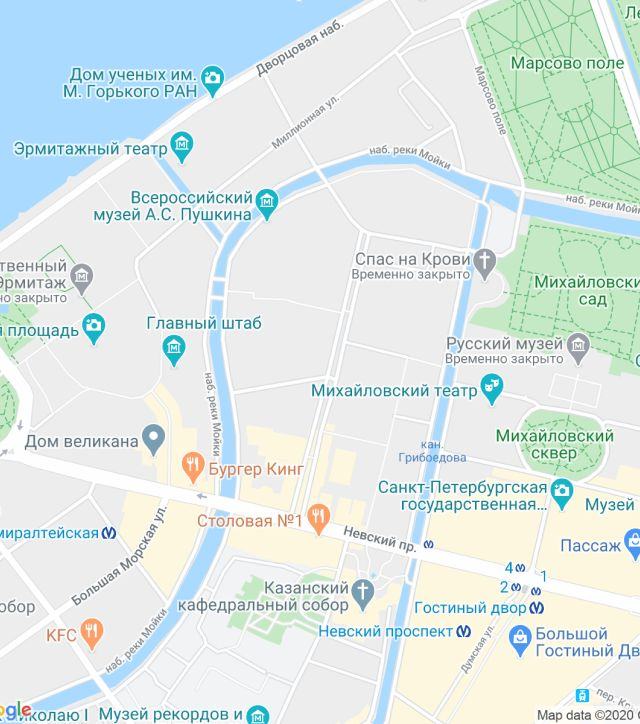
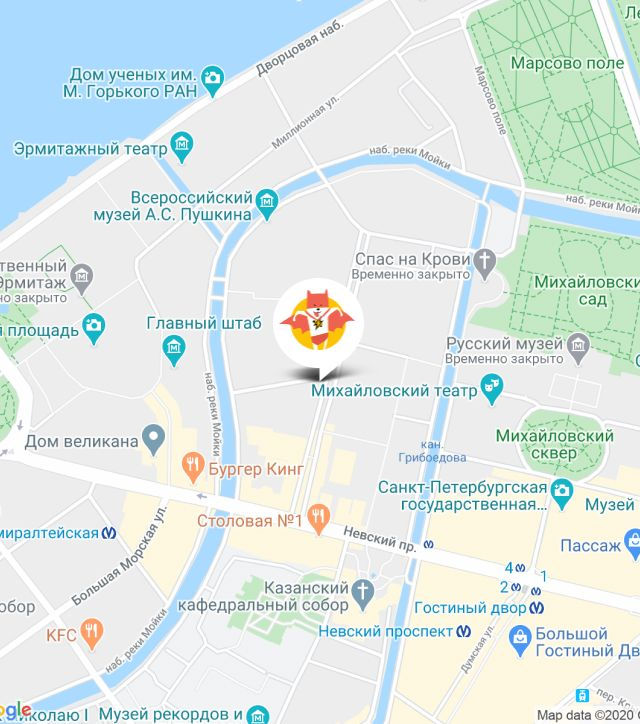
Вносит изменения в графику

Changed region(s): [[0.4375, 0.395, 0.5625, 0.547]]

diff --git a/source/index.html b/source/index.html
@@ -2,136 +2,140 @@
 <html class="page" lang="ru">
 
 <head>
-  <meta charset="UTF-8">
-  <title>Cat Energy</title>
-  <meta name="viewport" content="width=device-width,initial-scale=1">
-  <link rel="icon" href="favicon.ico" sizes="32x32">
-  <link rel="icon" href="favicons/icon.svg" type="image/svg+xml" sizes="32x32">
-  <link rel="apple-touch-icon" href="favicons/180.png" sizes="180x180">
-  <link rel="manifest" href="manifest.webmanifest">
-  <link rel="stylesheet" href="styles/styles.css">
-  <script src="scripts/index.js" defer></script>
+	<meta charset="UTF-8">
+	<title>Cat Energy</title>
+	<meta name="viewport" content="width=device-width,initial-scale=1">
+	<link rel="icon" href="favicon.ico" sizes="32x32">
+	<link rel="icon" href="favicons/icon.svg" type="image/svg+xml" sizes="32x32">
+	<link rel="apple-touch-icon" href="favicons/180.png" sizes="180x180">
+	<link rel="manifest" href="manifest.webmanifest">
+	<link rel="stylesheet" href="styles/styles.css">
+	<script src="scripts/index.js" defer></script>
 </head>
 
 <body class="page__body">
-  <header class="main-header">
-    <a class="main-header__logo logo" href="#">
-      <img class="logo__image trademark" src="#" width="33" height="38" alt="Товарный знак">
-      <img class="logo__image logotype" src="#" width="101" height="18" alt="Логотип Cat Energy">
-    </a>
-    <nav class="main-header__nav main-nav">
-      <button class="main-nav__burger-menu" type="button">
-        <span class="visually-hidden">Открыть меню</span>
-      </button>
-      <ul class="main-nav__list site-list">
-        <li class="site-list__item"><a class="site-list__link site-list__link--current" href="#">Главная</a></li>
-        <li class="site-list__item"><a class="site-list__link" href="catalog.html">Каталог продукции</a></li>
-        <li class="site-list__item"><a class="site-list__link" href="#">Подбор программы</a></li>
-      </ul>
-    </nav>
-  </header>
-  <main class="main-container">
-    <h1 class="visually-hidden">Онлайн-магазин кормов для котов Cat Energy</h1>
-    <section class="hero">
-      <h2 class="hero__title title">Функциональное питание для котов</h2>
-      <p class="hero__slogan">Занялся собой? Займись котом!</p>
-      <a class="hero__link-img" href="#">
-        <picture>
-          <source media="(min-width: 1440px)" width="552" height="499" type="image/png" srcset="images/main-product-desktop@1x.png 1x, images/main-product-desktop@2x.png 2x">
-          <source media="(min-width: 768px)" width="709" height="609" type="image/png" srcset="images/main-product-tablet@1x.png 1x, images/main-product-tablet@2x.png 2x">
-          <img class="hero__image" src="images/main-product-mobile@1x.png" srcset="images/main-product-mobile@2x.png 2x" width="280" height="270" alt="Фото упаковки корма Cat Energy со вкусом курицы 500г">
-        </picture>
-      </a>
-      <a class="hero__link button" href="#">Подобрать программу</a>
-    </section>
-    <section class="food-plan">
-      <h2 class="visually-hidden">Программы питания</h2>
-      <ul class="food-plan__list">
-        <li class="food-plan__item food-plan__item--slim">
-          <h3 class="food-plan__title">Похудение</h3>
-          <p class="food-plan__description">Ваш кот весит больше собаки и почти утратил способность лазить по деревьям?Пора на диету! Cat Energy Slim поможет вашему питомцу сбросить лишний вес.</p>
-          <a href="#">Каталог slim</a>
-        </li>
-        <li class="food-plan__item food-plan__item--pro">
-          <h3 class="food-plan__title">Набор массы</h3>
-          <p class="food-plan__description">Заработать авторитет среди дворовых котов и даже собак? Серия Cat Energy Pro поможет вашему коту нарастить необходимые мышцы!</p>
-          <a href="#">Каталог pro</a>
-        </li>
-      </ul>
-    </section>
-    <section class="working-principles">
-      <h2 class="working-principles__title title">Как это работает</h2>
-      <ul class="working-principles__list">
-        <li class="working-principles__item">
-          <p class="working-principles__description">Функциональное питание содержит только полезные питательные вещества.</p>
-        </li>
-        <li class="working-principles__item">
-          <p class="working-principles__description">Выпускается в виде порошка, который нужно лишь залить кипятком и готово.</p>
-        </li>
-        <li class="working-principles__item">
-          <p class="working-principles__description">Замените один-два приема обычной еды на наше функциональное питание.</p>
-        </li>
-        <li class="working-principles__item">
-          <p class="working-principles__description">Уже через месяц наслаждайтесь изменениями к лучшему вашего питомца!</p>
-        </li>
-      </ul>
-    </section>
-    <section class="real-case">
-      <h2 class="real-case__title title">Живой пример</h2>
-      <p class="real-case__description">Борис сбросил 5 кг за 2 месяца, просто заменив свой обычный корм на Cat Energy Slim. Отличный результат без изнуряющих тренировок! При этом он не менял своих привычек и по-прежнему спит по 16 часов в день.</p>
-      <dl class="real-case__stats stats">
-        <div class="stats__item">
-          <dt class="stats__number">5 кг</dt>
-          <dd class="stats__description">снижение веса</dd>
-        </div>
-        <div class="stats__item">
-          <dt class="stats__number">60 дней</dt>
-          <dd class="stats__description">затрачено времени</dd>
-        </div>
-      </dl>
-      <p class="real-case__cost">Затраты на питание: 15 000 руб.</p>
-      <div class="real-case__slider slider">
-        <div class="slider__item slider__item--before">
-          <picture>
-            <source media="(min-width: 1200px)" width="560" height="512" type="image/png" srcset="images/cat-before-tablet@1x.png 1x, images/cat-before-tablet@2x.png 2x">
-            <source media="(min-width: 768px)" width="560" height="512" type="image/png" srcset="images/cat-before-tablet@1x.png 1x, images/cat-before-tablet@2x.png 2x">
-            <img class="slider-image" src="images/сat-before-mobile@1x.png" srcset="images/сat-before-mobile@2x.png 2x" width="280" height="256" alt="Фото упитанного кота до потери веса">
-          </picture>
-        </div>
-        <div class="slider__item slider__item--after">
-          <picture>
-            <source media="(min-width: 1200px)" width="560" height="512" type="image/jpeg" srcset="images/cat-after-tablet@1x.png 1x, images/cat-after-tablet@2x.png 2x">
-            <source media="(min-width: 768px)" width="560" height="512" type="image/jpeg" srcset="images/cat-after-tablet@1x.png 1x, images/cat-after-tablet@2x.png 2x">
-            <img class="slider-image" src="images/сat-after-mobile@1x.png" srcset="images/сat-after-mobile@2x.png 2x" width="280" height="256" alt="Фото после">
-          </picture>
-        </div>
-      </div>
-    </section>
-    <section class="contacts">
-      <div class="contacts__card contact-us">
-        <h2 class="contact-us__title">Приглашаем к сотрудничеству дилеров!</h2>
-        <address class="contact-us__adress">ул. Большая Конюшенная, д. 19/8 Санкт-Петербург</address>
-      </div>
-      <img class="contacts__map map" src="#" width="320" height="362" alt="Наша локация на карте">
-    </section>
-  </main>
-  <footer class="footer">
-    <a class="footer__logo logo" href="#">
-      <img class="logo__image logotype" src="#" width="101" height="18" alt="Логотип Cat Energy">
-    </a>
-    <ul class="footer__social social-list">
-      <li class="social-list__item">
-        <a class="social-list__link" href="#"><span class="visually-hidden">VK</span></a>
-      </li>
-      <li class="social-list__item">
-        <a class="social-list__link" href="#"><span class="visually-hidden">Youtube</span></a>
-      </li>
-      <li class="social-list__item">
-        <a class="social-list__link" href="#"><span class="visually-hidden">Telegram</span></a>
-      </li>
-    </ul>
-    <a class="footer__author academy-logo" href="https://htmlacademy.ru/intensive/adaptive">HTML Academy</a>
-  </footer>
+	<header class="main-header">
+		<a class="main-header__logo logo" href="#">
+			<img class="logo__image logo-icon" src="#" width="33" height="38" alt="Товарный знак">
+			<img class="logo__image logo-text" src="#" width="101" height="18" alt="Логотип Cat Energy">
+		</a>
+		<nav class="main-header__nav main-nav">
+			<button class="main-nav__burger-menu" type="button">
+				<span class="visually-hidden">Открыть меню</span>
+			</button>
+			<ul class="main-nav__list site-list">
+				<li class="site-list__item"><a class="site-list__link site-list__link--current" href="#">Главная</a></li>
+				<li class="site-list__item"><a class="site-list__link" href="catalog.html">Каталог продукции</a></li>
+				<li class="site-list__item"><a class="site-list__link" href="#">Подбор программы</a></li>
+			</ul>
+		</nav>
+	</header>
+	<main class="main-container">
+		<h1 class="visually-hidden">Онлайн-магазин кормов для котов Cat Energy</h1>
+		<section class="hero">
+			<h2 class="hero__title title">Функциональное питание для котов</h2>
+			<p class="hero__slogan">Занялся собой? Займись котом!</p>
+			<a class="hero__link-img" href="#">
+				<picture>
+					<source media="(min-width: 1440px)" width="552" height="499" type="image/png" srcset="images/main-product-desktop@1x.png 1x, images/main-product-desktop@2x.png 2x">
+					<source media="(min-width: 768px)" width="709" height="609" type="image/png" srcset="images/main-product-tablet@1x.png 1x, images/main-product-tablet@2x.png 2x">
+					<img class="hero__image" src="images/main-product-mobile@1x.png" srcset="images/main-product-mobile@2x.png 2x" width="280" height="270" alt="Фото упаковки корма Cat Energy со вкусом курицы 500г">
+				</picture>
+			</a>
+			<a class="hero__link button" href="#">Подобрать программу</a>
+		</section>
+		<section class="food-plan">
+			<h2 class="visually-hidden">Программы питания</h2>
+			<ul class="food-plan__list">
+				<li class="food-plan__item food-plan__item--slim">
+					<h3 class="food-plan__title">Похудение</h3>
+					<p class="food-plan__description">Ваш кот весит больше собаки и почти утратил способность лазить по деревьям?Пора на диету! Cat Energy Slim поможет вашему питомцу сбросить лишний вес.</p>
+					<a href="#">Каталог slim</a>
+				</li>
+				<li class="food-plan__item food-plan__item--pro">
+					<h3 class="food-plan__title">Набор массы</h3>
+					<p class="food-plan__description">Заработать авторитет среди дворовых котов и даже собак? Серия Cat Energy Pro поможет вашему коту нарастить необходимые мышцы!</p>
+					<a href="#">Каталог pro</a>
+				</li>
+			</ul>
+		</section>
+		<section class="working-principles">
+			<h2 class="working-principles__title title">Как это работает</h2>
+			<ul class="working-principles__list">
+				<li class="working-principles__item">
+					<p class="working-principles__description">Функциональное питание содержит только полезные питательные вещества.</p>
+				</li>
+				<li class="working-principles__item">
+					<p class="working-principles__description">Выпускается в виде порошка, который нужно лишь залить кипятком и готово.</p>
+				</li>
+				<li class="working-principles__item">
+					<p class="working-principles__description">Замените один-два приема обычной еды на наше функциональное питание.</p>
+				</li>
+				<li class="working-principles__item">
+					<p class="working-principles__description">Уже через месяц наслаждайтесь изменениями к лучшему вашего питомца!</p>
+				</li>
+			</ul>
+		</section>
+		<section class="real-case">
+			<h2 class="real-case__title title">Живой пример</h2>
+			<p class="real-case__description">Борис сбросил 5 кг за 2 месяца, просто заменив свой обычный корм на Cat Energy Slim. Отличный результат без изнуряющих тренировок! При этом он не менял своих привычек и по-прежнему спит по 16 часов в день.</p>
+			<dl class="real-case__stats stats">
+				<div class="stats__item">
+					<dt class="stats__number">5 кг</dt>
+					<dd class="stats__description">снижение веса</dd>
+				</div>
+				<div class="stats__item">
+					<dt class="stats__number">60 дней</dt>
+					<dd class="stats__description">затрачено времени</dd>
+				</div>
+			</dl>
+			<p class="real-case__cost">Затраты на питание: 15 000 руб.</p>
+			<div class="real-case__slider slider">
+				<div class="slider__item slider__item--before">
+					<picture>
+						<source width="560" height="512" type="image/png" media="(min-width: 768px)" srcset="images/cat-before-tablet@1x.png 1x, images/cat-before-tablet@2x.png 2x">
+						<img class="slider-image" src="images/cat-before-mobile@1x.png" srcset="images/cat-before-mobile@2x.png 2x" width="280" height="256" alt="Фото упитанного кота до потери веса">
+					</picture>
+				</div>
+				<div class="slider__item slider__item--after">
+					<picture>
+						<source media="(min-width: 768px)" width="560" height="512" type="image/jpeg" srcset="images/cat-after-tablet@1x.png 1x, images/cat-after-tablet@2x.png 2x">
+						<img class="slider-image" src="images/cat-after-mobile@1x.png" srcset="images/сat-after-mobile@2x.png 2x" width="280" height="256" alt="Фото после">
+					</picture>
+				</div>
+			</div>
+		</section>
+		<section class="contacts">
+			<div class="contacts__card contact-us">
+				<h2 class="contact-us__title">Приглашаем к сотрудничеству дилеров!</h2>
+				<address class="contact-us__adress">ул. Большая Конюшенная, д. 19/8 Санкт-Петербург</address>
+			</div>
+			<div class="contacts__map map">
+				<picture>
+					<source media="(min-width: 1440px)" width="1440" height="400" type="image/jpeg" srcset="images/map-desktop@1x.jpg 1x, images/map-desktop@2x.jpg 2x">
+					<source media="(min-width: 768px)" width="768" height="400" type="image/jpeg" srcset="images/map-tablet@1x.jpg 1x, images/map-tablet@2x.jpg 2x">
+					<img class="map__image" src="images/map-mobile@1x.jpg" srcset="images/map-mobile@2x.jpg 2x" width="320" height="362" alt="Наша локация на карте">
+				</picture>
+			</div>
+		</section>
+	</main>
+	<footer class="footer">
+		<a class="footer__logo logo" href="#">
+			<img class="logo__image logo-text" src="#" width="101" height="18" alt="Логотип Cat Energy">
+		</a>
+		<ul class="footer__social social-list">
+			<li class="social-list__item">
+				<a class="social-list__link" href="#"><span class="visually-hidden">VK</span></a>
+			</li>
+			<li class="social-list__item">
+				<a class="social-list__link" href="#"><span class="visually-hidden">Youtube</span></a>
+			</li>
+			<li class="social-list__item">
+				<a class="social-list__link" href="#"><span class="visually-hidden">Telegram</span></a>
+			</li>
+		</ul>
+		<a class="footer__author academy-logo" href="https://htmlacademy.ru/intensive/adaptive">HTML Academy</a>
+	</footer>
 </body>
 
 </html>

diff --git a/source/catalog.html b/source/catalog.html
@@ -16,8 +16,8 @@
 <body class="page__body">
   <header class="main-header">
     <a class="main-header__logo logo" href="#">
-      <img class="logo__image trademark" src="#" width="33" height="38" alt="Товарный знак">
-      <img class="logo__image logotype" src="#" width="101" height="18" alt="Логотип Cat Energy">
+      <img class="logo__image logo-icon" src="#" width="33" height="38" alt="Товарный знак">
+      <img class="logo__image logo-text" src="#" width="101" height="18" alt="Логотип Cat Energy">
     </a>
     <nav class="main-header__nav main-nav">
       <button class="main-nav__burger-menu" type="button">
@@ -38,7 +38,6 @@
         <li class="product">
           <a class="product__link" href="#" tabindex="-1">
             <picture>
-              <source media="(min-width: 1200px)" width="161" height="172" type="image/png" srcset="images/catalog-1-tablet@1x.png 1x, images/catalog-1-tablet@2x.png 2x">
               <source media="(min-width: 768px)" width="161" height="172" type="image/png" srcset="images/catalog-1-tablet@1x.png 1x, images/catalog-1-tablet@2x.png 2x">
               <img class="product__image" src="images/catalog-1-mobile@1x.png" srcset="images/catalog-1-mobile@2x.png 2x" width="68" height="86" alt="Изображение товара 1">
             </picture>
@@ -65,7 +64,7 @@
         <li class="product">
           <a class="product__link" href="#" tabindex="-1">
             <picture>
-              <source media="(min-width: 1200px)" width="172" height="196" type="image/png" srcset="images/catalog-2-desktop@1x.png 1x, images/catalog-2-desktop@2x.png 2x">
+              <source media="(min-width: 1440px)" width="172" height="196" type="image/png" srcset="images/catalog-2-desktop@1x.png 1x, images/catalog-2-desktop@2x.png 2x">
               <source media="(min-width: 768px)" width="168" height="206" type="image/png" srcset="images/catalog-2-tablet@1x.png 1x, images/catalog-2-tablet@2x.png 2x">
               <img class="product__image" src="images/catalog-2-mobile@1x.png" srcset="images/catalog-2-mobile@2x.png 2x" width="84" height="100" alt="Изображение товара 2">
             </picture>
@@ -92,7 +91,6 @@
         <li class="product">
           <a class="product__link" href="#" tabindex="-1">
             <picture>
-              <source media="(min-width: 1200px)" width="163" height="174" type="image/png" srcset="images/catalog-3-tablet@1x.png 1x, images/catalog-3-tablet@2x.png 2x">
               <source media="(min-width: 768px)" width="163" height="174" type="image/png" srcset="images/catalog-3-tablet@1x.png 1x, images/catalog-3-tablet@2x.png 2x">
               <img class="product__image" src="images/catalog-3-mobile@1x.png" srcset="images/catalog-3-mobile@2x.png 2x" width="68" height="78" alt="Изображение товара 3">
             </picture>
@@ -119,7 +117,7 @@
         <li class="product">
           <a class="product__link" href="#" tabindex="-1">
             <picture>
-              <source media="(min-width: 1200px)" width="172" height="196" type="image/png" srcset="images/catalog-4-desktop@1x.png 1x, images/catalog-4-desktop@2x.png 2x">
+              <source media="(min-width: 1440px)" width="172" height="196" type="image/png" srcset="images/catalog-4-desktop@1x.png 1x, images/catalog-4-desktop@2x.png 2x">
               <source media="(min-width: 768px)" width="168" height="200" type="image/png" srcset="images/catalog-4-tablet@1x.png 1x, images/catalog-4-tablet@2x.png 2x">
               <img class="product__image" src="images/catalog-4-mobile@1x.png" srcset="images/catalog-4-mobile@2x.png 2x" width="84" height="100" alt="Изображение товара 4">
             </picture>
@@ -146,7 +144,6 @@
         <li class="product">
           <a class="product__link" href="#" tabindex="-1">
             <picture>
-              <source media="(min-width: 1200px)" width="161" height="172" type="image/png" srcset="images/catalog-5-tablet@1x.png 1x, images/catalog-5-tablet@2x.png 2x">
               <source media="(min-width: 768px)" width="161" height="172" type="image/png" srcset="images/catalog-5-tablet@1x.png 1x, images/catalog-5-tablet@2x.png 2x">
               <img class="product__image" src="images/catalog-5-mobile@1x.png" srcset="images/catalog-5-mobile@2x.png 2x" width="68" height="78" alt="Изображение товара 5">
             </picture>
@@ -173,7 +170,7 @@
         <li class="product">
           <a class="product__link" href="#" tabindex="-1">
             <picture>
-              <source media="(min-width: 1200px)" width="172" height="196" type="image/png" srcset="images/catalog-6-desktop@1x.png 1x, images/catalog-6-desktop@2x.png 2x">
+              <source media="(min-width: 1440px)" width="172" height="196" type="image/png" srcset="images/catalog-6-desktop@1x.png 1x, images/catalog-6-desktop@2x.png 2x">
               <source media="(min-width: 768px)" width="168" height="200" type="image/png" srcset="images/catalog-6-tablet@1x.png 1x, images/catalog-6-tablet@2x.png 2x">
               <img class="product__image" src="images/catalog-6-mobile@1x.png" srcset="images/catalog-6-mobile@2x.png 2x" width="84" height="100" alt="Изображение товара 6">
             </picture>
@@ -200,7 +197,6 @@
         <li class="product">
           <a class="product__link" href="#" tabindex="-1">
             <picture>
-              <source media="(min-width: 1200px)" width="163" height="174" type="image/png" srcset="images/catalog-7-tablet@1x.png 1x, images/catalog-7-tablet@2x.png 2x">
               <source media="(min-width: 768px)" width="163" height="174" type="image/png" srcset="images/catalog-7-tablet@1x.png 1x, images/catalog-7-tablet@2x.png 2x">
               <img class="product__image" src="images/catalog-7-mobile@1x.png" srcset="images/catalog-7-mobile@2x.png 2x" width="72" height="84" alt="Изображение товара 7">
             </picture>
@@ -291,7 +287,7 @@
   </main>
   <footer class="footer">
     <a class="footer__logo logo" href="#">
-      <img class="logo__image logotype" src="#" width="101" height="18" alt="Логотип Cat Energy">
+      <img class="logo__image logo-text" src="#" width="101" height="18" alt="Логотип Cat Energy">
     </a>
     <ul class="footer__social social-list">
       <li class="social-list__item">
